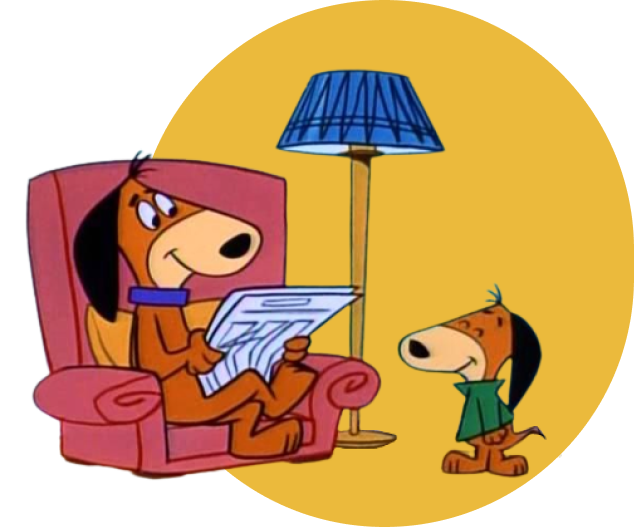
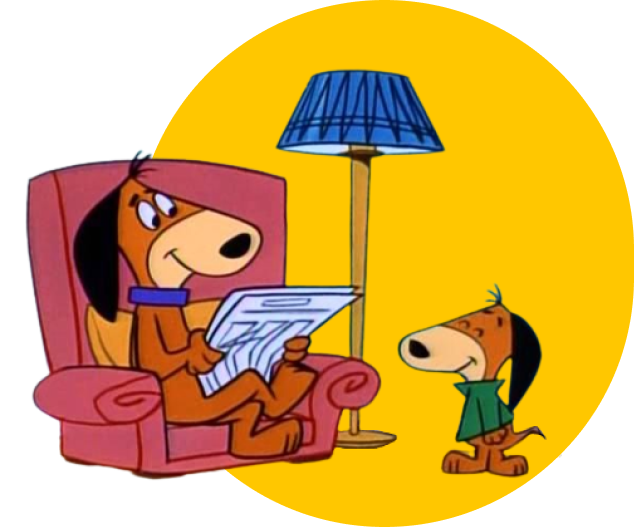
sessão e design
modificações no design, adicionamento de sessão de destaques da semana

diff --git a/index.html b/index.html
@@ -1,65 +1,107 @@
 <!DOCTYPE html>
 <html lang="pt-br">
-<head>
-  <meta charset="UTF-8">
-  <meta name="viewport" content="width=device-width, initial-scale=1.0">
-  <link rel="stylesheet" href="./assets/style/style.css">
-  <title>Old Cartoons</title>
-</head>
-<body>
-  <header id="home">
-    <nav>
-      <div class="wrapper">
-        <div class="espacamento">
-          <div class="menu">
-            <a href="#" class="menu-logo">
-              <img src="./assets/images/logo.png" alt="Logo old cartoons">
-            </a>
-  
-            <ul class="menu-lista">
-              <li>
-                <a href="#">Home</a>
-              </li>
-              <li>
-                <a href="#">Old cartoons</a>
-              </li>
-              <li>
-                <a href="#">Curiosidades</a>
-              </li>
-              <li>
-                <a href="#">Sobre</a>
-              </li>
-            </ul>
+  <head>
+    <meta charset="UTF-8" />
+    <meta name="viewport" content="width=device-width, initial-scale=1.0" />
+    <link rel="stylesheet" href="./assets/style/style.css" />
+    <title>Old Cartoons</title>
+  </head>
+  <body>
+    <header id="home">
+      <nav>
+        <div class="wrapper">
+          <div class="espacamento">
+            <div class="menu">
+              <a href="#" class="menu-logo">
+                <img src="./assets/images/logo.png" alt="Logo old cartoons" />
+              </a>
+
+              <ul class="menu-lista">
+                <li>
+                  <a href="#">Home</a>
+                </li>
+                <li>
+                  <a href="#">Old cartoons</a>
+                </li>
+                <li>
+                  <a href="#">Curiosidades</a>
+                </li>
+                <li>
+                  <a href="#">Sobre</a>
+                </li>
+              </ul>
+            </div>
+            <form class="campo-pesquisar">
+              <input
+                type="search"
+                name="pesquisar"
+                id="input-pesquisar"
+                placeholder="pesquisar"
+              />
+              <img
+                src="./assets/images/search.png"
+                alt="icone representativo de uma lupa."
+              />
+            </form>
           </div>
-          <form class="campo-pesquisar">
-            <input type="search" name="pesquisar" id="input-pesquisar" placeholder="pesquisar">
-            <img src="./assets/images/search.png" alt="icone representativo de uma lupa.">
-          </form>
+        </div>
+      </nav>
+
+      <div class="banner">
+        <div class="wrapper">
+          <div class="divisao-tela">
+            <div class="descricao-desenho">
+              <h2>
+                Augie Doggie <br />
+                and Doggie Daddy
+              </h2>
+              <p>
+                It is a long established fact that a reader will be distracted
+                by the readable content of a page when looking at its layout.
+                The point of using Lorem Ipsum is that it has a more-or-less
+                normal...
+              </p>
+              <button>Continue lendo</button>
+            </div>
+            <figure class="imagem-desenho">
+              <img
+                src="./assets/images/um-cachorro-sentado-no-sofa.png"
+                alt="Na imagem contém dois cachorros, um está sentado no sofá lendo jornal e o outro parado em frente ao cachorro que está no sofa, ele está com os olhos fechados sorrindo."
+              />
+            </figure>
+          </div>
         </div>
       </div>
-    </nav>
+    </header>
 
-    <div class="banner">
-      <div class="wrapper">
-        <div class="divisao-tela">
-          <div class="descricao-desenho">
-            <h2>
-              Augie Doggie <br /> 
-              and Doggie Daddy
-            </h2>
-            <p>
-              It is a long established fact that a reader will be distracted by the readable content of a page when looking at its layout. The point of using Lorem Ipsum is that it has a more-or-less normal...
-            </p>
-            <button>Continue lendo</button>
-          </div>
-          <figure class="imagem-desenho">
-            <img src="./assets/images/um-cachorro-sentado-no-sofa.png" alt="Na imagem contém dois cachorros, um está sentado no sofá lendo jornal e o outro parado em frente ao cachorro que está no sofa, ele está com os olhos fechados sorrindo.">
-          </figure>
-        </div>
-      </div>
-    </div>
-  </header>
+    <main id="pagina-principal">
+      <section class="destaques-da-semana">
+        <h2>Destaques da semana</h2>
+        <ul class="lista-destaque">
+          <li>
+            <a href="#"
+              ><img src="assets/images/img_circle_cavernaDoDragao.png"
+            /><p>Caverna do Dragão</p></a>
+          </li>
+          <li>
+            <a href="#"
+              ><img src="assets/images/img_circle_coragemCaoCovarde.png" />
+              <p>Coragem o Cão Covarde</p></a
+            >
+          </li>
+          <li>
+            <a href="#"
+              ><img src="assets/images/img_circle_flintstones.png"
+            /><p>Flintstones</p></a>
+           
+          </li>
+          <li>
+            <a href="#"><img src="assets/images/img_circle_tom_jerry.png" /><p>Tom & Jerry</p></a>
+          </li>
+        </ul>
+      </section>
+    </main>
 
-  <script src="/assets/script/script.js"></script>  
-</body>
+    <script src="/assets/script/script.js"></script>
+  </body>
 </html>

diff --git a/assets/style/style.css b/assets/style/style.css
@@ -14,6 +14,7 @@
   --color-02:#070606;
   --color-03:#eeecec;
   --color-04: #FA9600;
+  --gradient-button: linear-gradient(180deg, #B40000 0%, #D34C00 100%, #D34C00 100%);
   --fonte:'Nunito', sans-serif;
 }
 
@@ -56,6 +57,7 @@ body{
 #home .menu-logo img{
   width: 100px;
   padding-left: 2rem;
+  filter: drop-shadow(0px 3px 4px rgba(0, 0, 0, 0.25));
 
 }
 
@@ -96,10 +98,11 @@ body{
 /* HOME - BANNER */
 
 .banner {
- 
-  width: 100%;
-  height: 80%;
-  background-color: var(--color-04);
+  width: 1366px;
+  max-height: 800px;
+  min-height: 500px;  
+  background: radial-gradient(82.8% 82.8% at 50% 17.2%, #FFBE5B 1.91%, #FA9600 100%);
+  filter: drop-shadow(0px 4px 4px rgba(0, 0, 0, 0.25)) drop-shadow(2px -2px 9px hsla(0, 0%, 0%, 0.16));
 }
 
 .banner .divisao-tela {
@@ -118,8 +121,6 @@ body{
 }
 .banner .divisao-tela .descricao-desenho h2 {
   font-size: 5rem;
-
- 
 }
 
 .banner .divisao-tela .descricao-desenho p {
@@ -134,8 +135,9 @@ body{
   border: none;
   font-weight:bold;
   cursor: pointer;
-  color: var(--color-02);
-  background: var(--color-03);
+  color: var(--color-03);
+  background: var(--gradient-button);
+  filter: drop-shadow(0px 3px 4px #00000033);
 }
 
 .banner .divisao-tela .imagem-desenho {
@@ -148,5 +150,31 @@ body{
 
 .banner .divisao-tela .imagem-desenho img {
   max-width: 500px;
-  width: 100%;
+  min-height: 100px;
+  width: 100%;  
+  filter: drop-shadow(0px -8px 27px rgba(211, 76, 0, 0.12));
 }
+
+/*---HOME-PÁGINA PRINCIPAL*/
+#pagina-principal .destaques-da-semana h2{
+ padding-left: 25rem;
+ font-size: 3.062rem;
+}
+
+#pagina-principal .lista-destaque{
+  display: flex;
+  flex-direction: row;
+  max-width: 1024px;
+  height: 276px;
+  margin: auto;
+  justify-content: center;
+  align-items: center;
+  text-align: center;
+  gap: 20px;
+  list-style-type:none; 
+}
+
+#pagina-principal .lista-destaque a{
+  text-decoration: none;
+}
+
